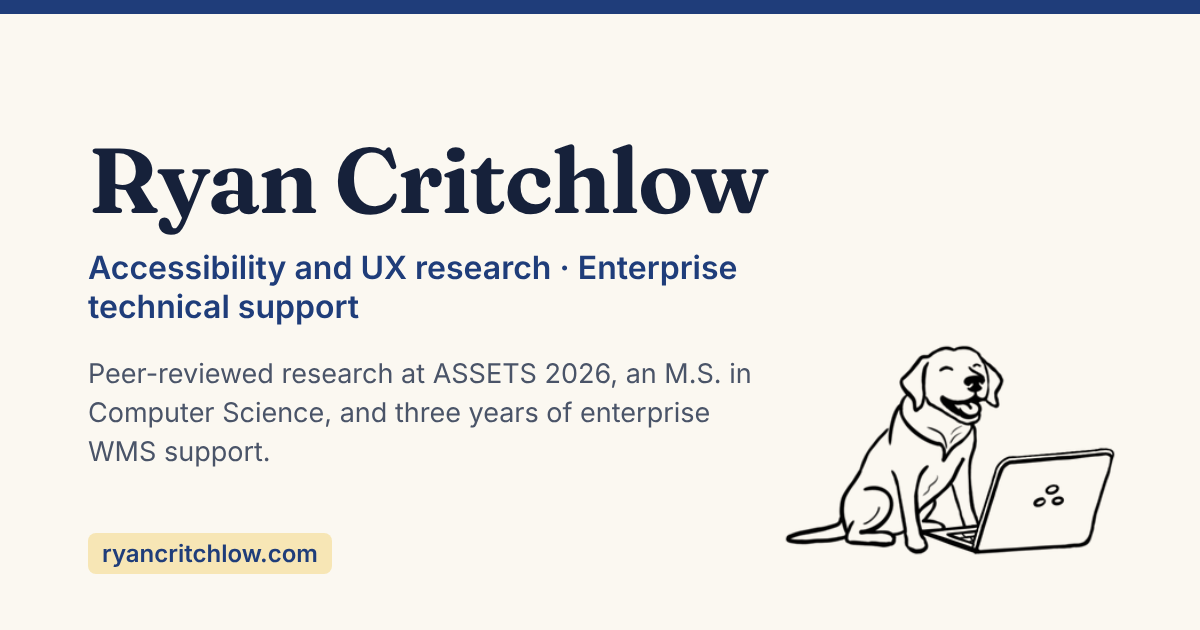
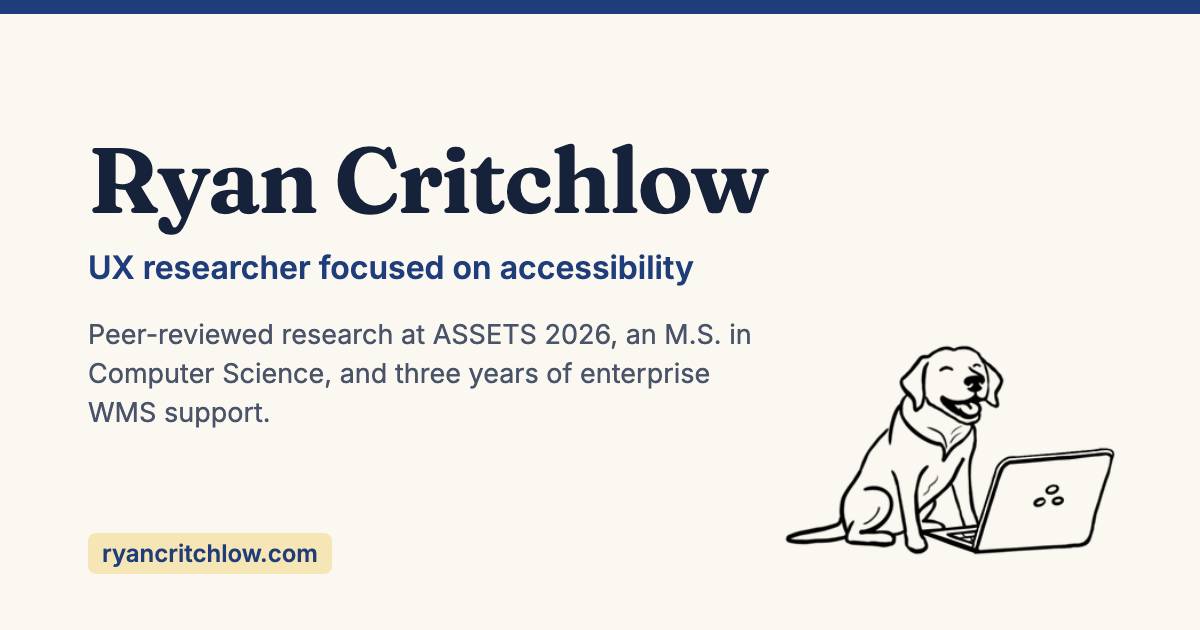
Pitch the site as UX research first
- Tagline, page title, share text and preview card: "UX researcher
  focused on accessibility", replacing the topic list.
- Intro names the research methods and the ASSETS paper first, with
  Körber as background.
- Publications moves above Experience, in the page and the nav.
- Research methods leads the Skills groups.

diff --git a/src/routes/+page.svelte b/src/routes/+page.svelte
@@ -7,7 +7,7 @@
 	import Education from '$lib/components/sections/Education.svelte';
 
 	const description =
-		'Ryan Critchlow: accessibility and UX research, and enterprise technical support. Peer-reviewed research at ASSETS 2026, an M.S. in Computer Science, and three years as an L4 support analyst on enterprise warehouse-management accounts.';
+		'Ryan Critchlow is a UX researcher focused on accessibility, with a peer-reviewed paper at ASSETS 2026, an M.S. in Computer Science, and three years as an L4 support analyst on enterprise warehouse-management accounts.';
 
 	const personSchema = {
 		'@context': 'https://schema.org',
@@ -16,7 +16,7 @@
 		url: 'https://ryancritchlow.com',
 		image: 'https://ryancritchlow.com/images/ryancritchlow.jpeg',
 		email: 'mailto:critchlow.rc@gmail.com',
-		jobTitle: 'Accessibility and UX Researcher; Technical Support Engineer',
+		jobTitle: 'UX Researcher',
 		identifier: 'https://orcid.org/0009-0007-7323-9177',
 		alumniOf: {
 			'@type': 'CollegeOrUniversity',
@@ -44,28 +44,19 @@
 </script>
 
 <svelte:head>
-	<title>Ryan Critchlow | Accessibility and UX research · Enterprise technical support</title>
+	<title>Ryan Critchlow | UX researcher focused on accessibility</title>
 	<meta name="description" content={description} />
 	<meta property="og:title" content="Ryan Critchlow" />
-	<meta
-		property="og:description"
-		content="Accessibility and UX research · Enterprise technical support"
-	/>
+	<meta property="og:description" content="UX researcher focused on accessibility" />
 	<meta property="og:type" content="website" />
 	<meta property="og:url" content="https://ryancritchlow.com" />
 	<meta property="og:image" content="https://ryancritchlow.com/images/og-card.png" />
 	<meta property="og:image:width" content="1200" />
 	<meta property="og:image:height" content="630" />
-	<meta
-		property="og:image:alt"
-		content="Ryan Critchlow — Accessibility and UX research · Enterprise technical support"
-	/>
+	<meta property="og:image:alt" content="Ryan Critchlow — UX researcher focused on accessibility" />
 	<meta name="twitter:card" content="summary_large_image" />
 	<meta name="twitter:title" content="Ryan Critchlow" />
-	<meta
-		name="twitter:description"
-		content="Accessibility and UX research · Enterprise technical support"
-	/>
+	<meta name="twitter:description" content="UX researcher focused on accessibility" />
 	<meta name="twitter:image" content="https://ryancritchlow.com/images/og-card.png" />
 	<!--
 		{@html} is the only way to emit a JSON-LD block. The data is static and escaped
@@ -77,7 +68,7 @@
 
 <Hero />
 <About />
-<Experience />
 <Publications />
+<Experience />
 <Skills />
 <Education />

diff --git a/src/lib/data/content.ts b/src/lib/data/content.ts
@@ -9,9 +9,9 @@ import type {
 
 export const hero = {
 	name: 'Ryan Critchlow',
-	tagline: 'Accessibility and UX research · Enterprise technical support',
+	tagline: 'UX researcher focused on accessibility',
 	summary:
-		'I study how people use technology, and I troubleshoot enterprise systems. Peer-reviewed accessibility research at ASSETS 2026, an M.S. in Computer Science, and three years as an L4 support analyst on enterprise warehouse-management accounts at Körber.',
+		'I plan and run research with the people a technology is for, using participatory design, semi-structured interviews, and thematic analysis. I co-authored a peer-reviewed paper at ASSETS 2026 and hold an M.S. in Computer Science. Before graduate school, I spent three years as an L4 support analyst on enterprise warehouse-management accounts at Körber.',
 	status: 'At ASSETS 2026 in Vila Nova de Gaia, Portugal, October 25–28.',
 	availability:
 		'Open to UX research, accessibility engineer, and technical support engineer roles in the Pacific Northwest or remote.',
@@ -162,19 +162,6 @@ export const credentials = {
 // Each group says where it was used, so the list reads as evidence, not keywords.
 export const skills: SkillCategory[] = [
 	{
-		label: 'Troubleshooting & support',
-		items: [
-			'Fault isolation across systems',
-			'Escalation with evidence',
-			'SQL performance tuning',
-			'Deadlock resolution',
-			'Go-live support',
-			'Knowledge base writing',
-			'Onboarding & training'
-		],
-		from: [{ label: 'Körber', href: '#korber' }]
-	},
-	{
 		label: 'Research methods',
 		items: [
 			'Participatory evaluation',
@@ -190,6 +177,19 @@ export const skills: SkillCategory[] = [
 			{ label: 'KIND Lab', href: '#kind-lab' },
 			{ label: 'ASSETS 2026', href: '#publications' }
 		]
+	},
+	{
+		label: 'Troubleshooting & support',
+		items: [
+			'Fault isolation across systems',
+			'Escalation with evidence',
+			'SQL performance tuning',
+			'Deadlock resolution',
+			'Go-live support',
+			'Knowledge base writing',
+			'Onboarding & training'
+		],
+		from: [{ label: 'Körber', href: '#korber' }]
 	},
 	{
 		label: 'Process & stakeholders',
@@ -297,8 +297,8 @@ export const contact: ContactLink[] = [
 
 export const navLinks = [
 	{ label: 'About', href: '/#about' },
-	{ label: 'Experience', href: '/#experience' },
 	{ label: 'Publications', href: '/#publications' },
+	{ label: 'Experience', href: '/#experience' },
 	{ label: 'Skills', href: '/#skills' },
 	{ label: 'Education', href: '/#education' }
 ];

diff --git a/scripts/og-card.html b/scripts/og-card.html
@@ -77,7 +77,7 @@
 	<body>
 		<div class="c">
 			<h1>Ryan Critchlow</h1>
-			<div class="t">Accessibility and UX research · Enterprise technical support</div>
+			<div class="t">UX researcher focused on accessibility</div>
 			<div class="s">
 				Peer-reviewed research at ASSETS 2026, an M.S. in Computer Science, and three years of
 				enterprise WMS support.
